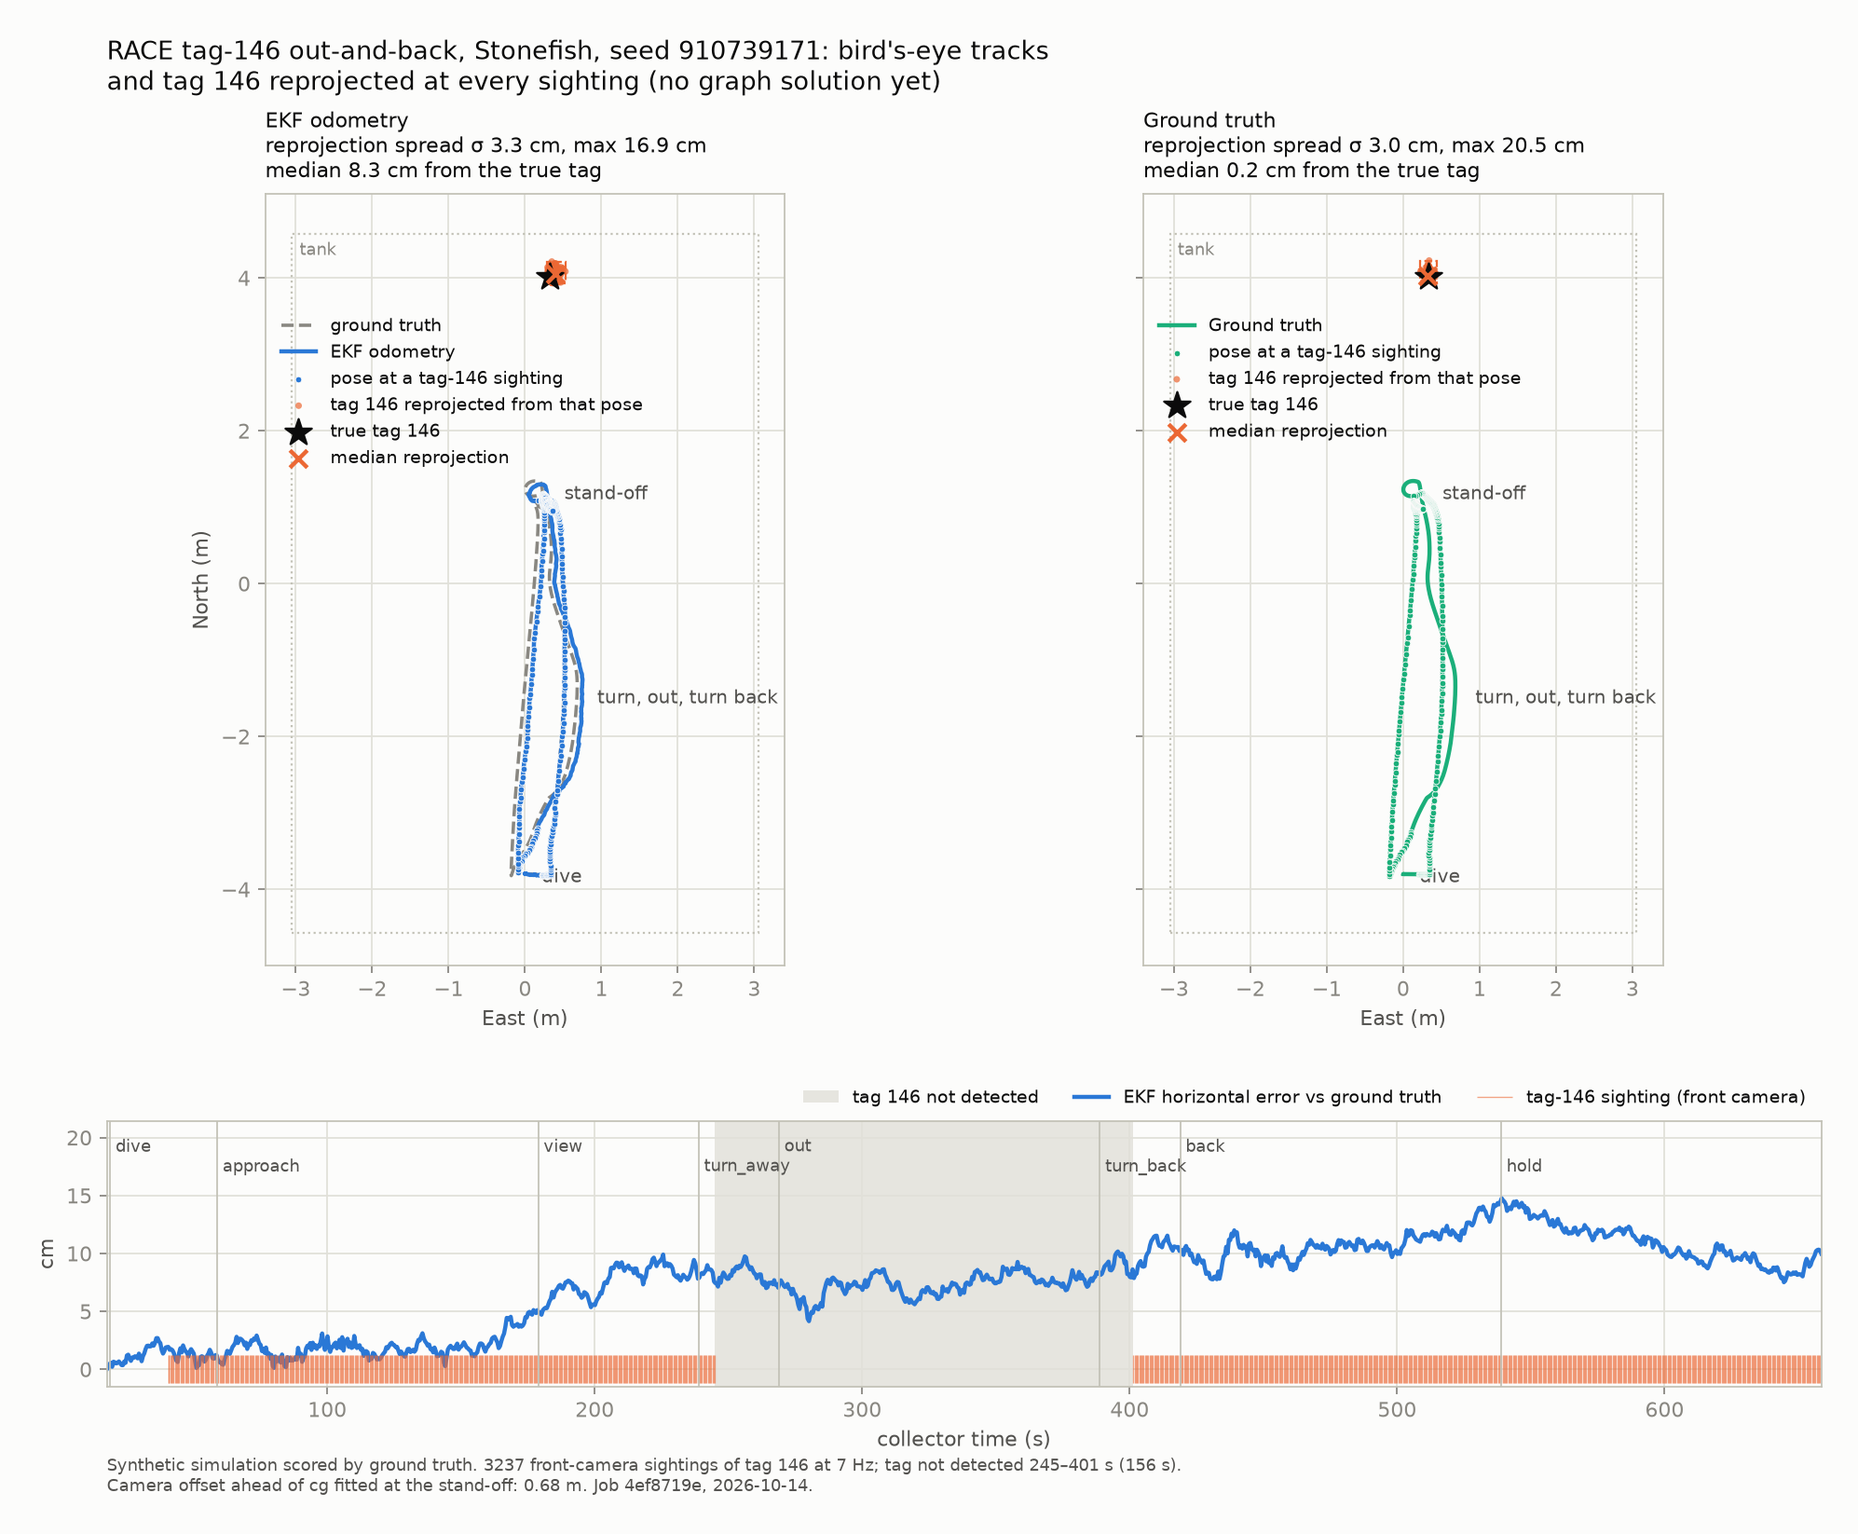
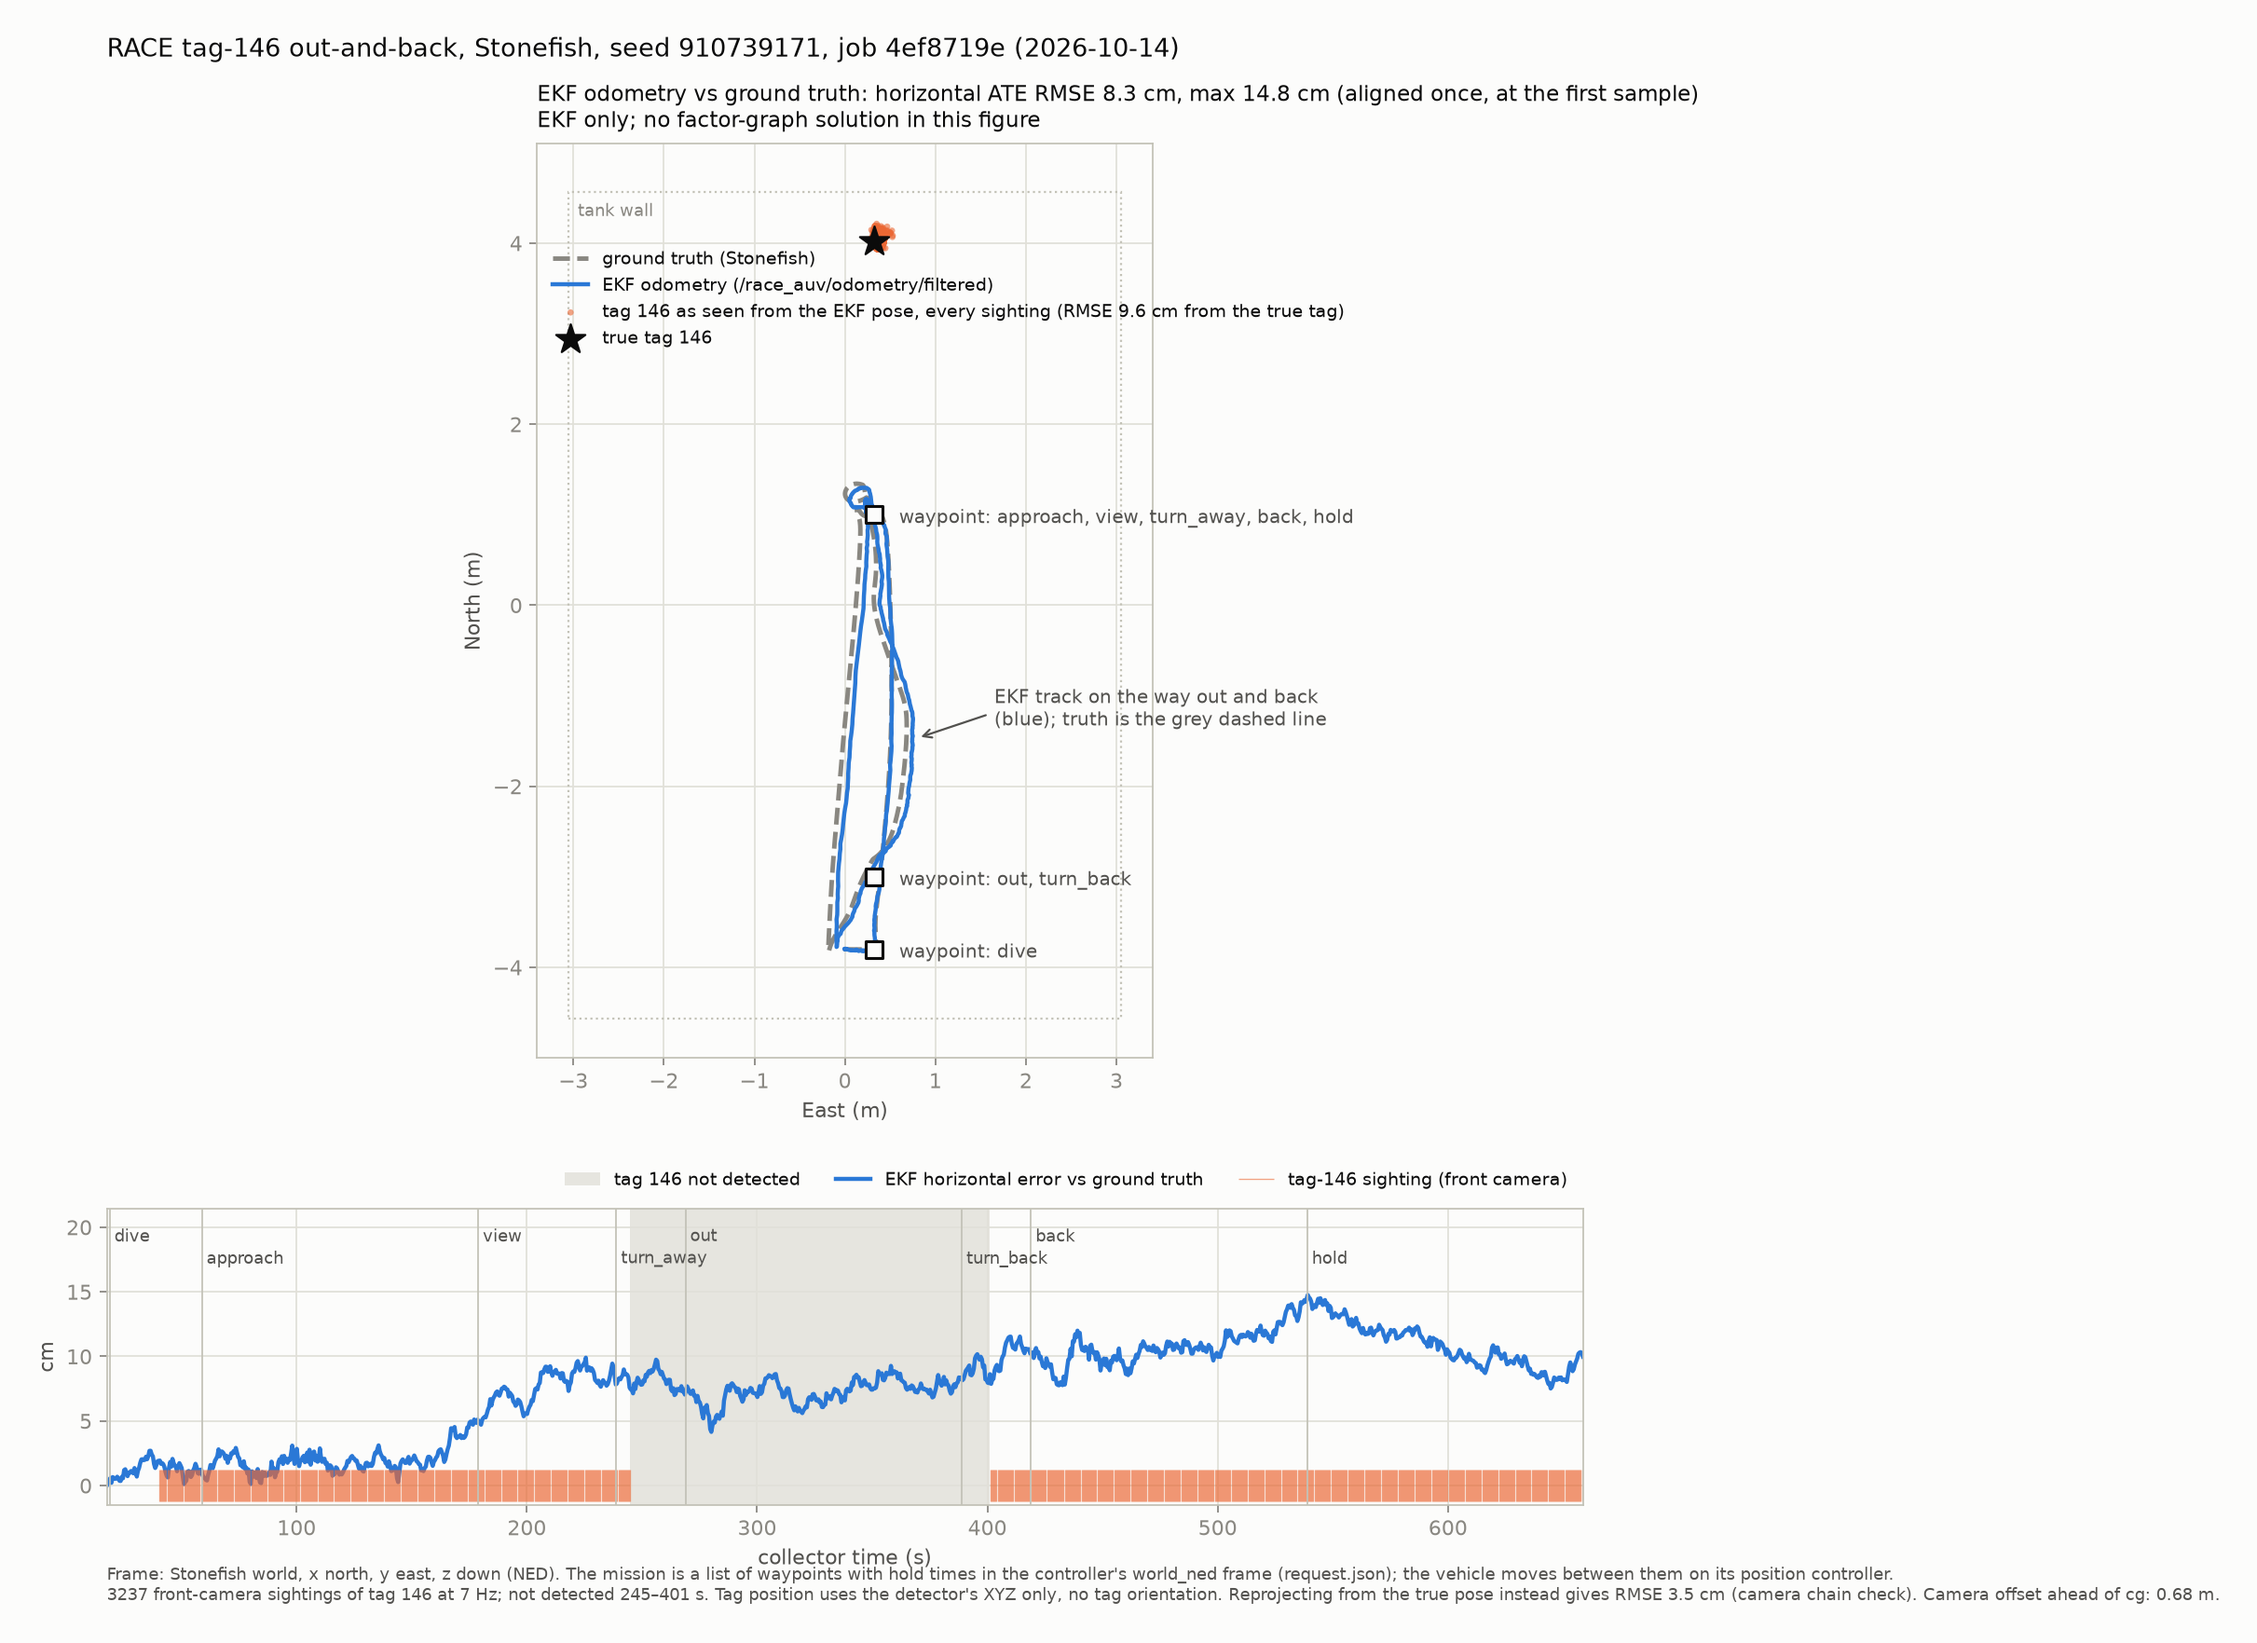
Redraw the tag-146 run figure after the lab's reading: one panel, RMSE, named waypoints, frame stated
Drops the duplicate ground-truth panel and the sighting dots, replaces medians
with horizontal ATE RMSE and max, draws and names the mission waypoints, and
states the coordinate frame and that no tag orientation is used. The first
version is kept as bev-v1-superseded.png.

Claude-Session: https://claude.ai/code/session_01U8BY2J9E2ToqWVCqJcFhAN

diff --git a/docs/piccard/runs/2026-10-14-tag146-out-and-back/make_figure.py b/docs/piccard/runs/2026-10-14-tag146-out-and-back/make_figure.py
@@ -2,7 +2,7 @@ import json,math,sys
 import numpy as np, matplotlib
 matplotlib.use('Agg'); import matplotlib.pyplot as plt
 OUT=sys.argv[1]
-d=json.load(open('docking.json')); tr=json.load(open('trial.json'))
+d=json.load(open('docking.json')); tr=json.load(open('trial.json')); req=json.load(open('request/mission.json'))
 poses=d['poses']; cf=d['controller_frame_in_ground_truth']; yw=cf['yaw_rad']; ox,oy=cf['origin_m'][0],cf['origin_m'][1]
 TAG=np.array([4.02,0.325,3.505])
 def c2w(p):
@@ -29,31 +29,37 @@ def nearest(ts):
 j=nearest(D[:,0]); ok=abs(t[j]-D[:,0])<0.6
 RE=np.array([reproj(ex[k],ey[k],eyaw[k],D[n,1],D[n,3]) for n,k in zip(np.where(ok)[0],j[ok])])
 RG=np.array([reproj(gx[k],gy[k],gyaw[k],D[n,1],D[n,3]) for n,k in zip(np.where(ok)[0],j[ok])])
-def spread(R): med=np.median(R,axis=0); dd=np.linalg.norm(R-med,axis=1); return med,dd.std(),dd.max(),np.linalg.norm(med-TAG[:2])
-mE,sE,xE,offE=spread(RE); mG,sG,xG,offG=spread(RG); err=np.hypot(ex-gx,ey-gy)
+err=np.hypot(ex-gx,ey-gy); rmse=float(np.sqrt(np.mean(err**2))); emax=float(err.max())
+rE=np.linalg.norm(RE-TAG[:2],axis=1); rG=np.linalg.norm(RG-TAG[:2],axis=1)
+rmseE=float(np.sqrt(np.mean(rE**2))); rmseG=float(np.sqrt(np.mean(rG**2)))
 gap=(D[D[:,0]<300][-1,0], D[D[:,0]>300][0,0])
-S='#fcfcfb'; INK='#0b0b0b'; INK2='#52514e'; MUTED='#898781'; GRID='#e1e0d9'; AXIS='#c3c2b7'; C1='#2a78d6'; C2='#eb6834'; C3='#1baf7a'
+# waypoints (controller frame -> world)
+wp={}
+for p in req['poses']: wp.setdefault((p['x_m'],p['y_m']),[]).append(p['label'])
+nums={'ate_horizontal_rmse_m':rmse,'ate_horizontal_max_m':emax,'ate_horizontal_at_end_m':float(err[-1]),
+      'tag146_reprojected_from_ekf_pose_rmse_from_true_tag_m':rmseE,'tag146_reprojected_from_true_pose_rmse_from_true_tag_m':rmseG,
+      'sightings_146_front':int(len(D)),'tag_out_interval_s':[float(gap[0]),float(gap[1])],'camera_offset_fit_m':float(cam_off),
+      'alignment':'EKF (controller world_ned frame) mapped to the Stonefish world by the transform recorded from the first cg_link sample (docking.json controller_frame_in_ground_truth); no least-squares alignment',
+      'frame':'Stonefish world: x north, y east, z down (NED); figure axes East (y) and North (x)','seed':tr['simulator_seed']['value'],'mission_s':tr['mission_seconds']}
+json.dump(nums,open(f'{OUT}/figure-numbers.json','w'),indent=1); print(json.dumps(nums,indent=1))
+S='#fcfcfb'; INK='#0b0b0b'; INK2='#52514e'; MUTED='#898781'; GRID='#e1e0d9'; AXIS='#c3c2b7'; C1='#2a78d6'; C2='#eb6834'
 plt.rcParams.update({'font.family':'sans-serif','font.size':10,'axes.edgecolor':AXIS,'axes.labelcolor':INK2,'xtick.color':MUTED,'ytick.color':MUTED,'text.color':INK})
-fig=plt.figure(figsize=(12.5,10),facecolor=S); gs=fig.add_gridspec(2,2,height_ratios=[3.2,1.1],hspace=0.3,wspace=0.05,left=0.07,right=0.99,top=0.88,bottom=0.08)
-axL=fig.add_subplot(gs[0,0]); axR=fig.add_subplot(gs[0,1],sharex=axL,sharey=axL); axT=fig.add_subplot(gs[1,:])
-for ax,title,R,med,sg,mx,off,col,X,Y in ((axL,'EKF odometry',RE,mE,sE,xE,offE,C1,ex,ey),(axR,'Ground truth',RG,mG,sG,xG,offG,C3,gx,gy)):
-    ax.set_facecolor(S); ax.set_aspect('equal'); ax.grid(True,color=GRID,lw=0.8); ax.set_axisbelow(True)
-    ax.add_patch(plt.Rectangle((-3.05,-4.57),6.1,9.14,fill=False,ec=AXIS,lw=1,ls=':'))
-    ax.text(-2.95,4.3,'tank',fontsize=8,color=MUTED)
-    if ax is axL: ax.plot(gy,gx,color=MUTED,lw=1.6,ls="--",label="ground truth",zorder=2)
-    ax.plot(Y,X,color=col,lw=2,label=title,zorder=3)
-    k=nearest(D[:,0])[::6]; ax.scatter(Y[k],X[k],s=9,color=col,edgecolor=S,lw=0.4,zorder=4,label='pose at a tag-146 sighting')
-    ax.scatter(R[::4,1],R[::4,0],s=10,color=C2,alpha=0.7,edgecolor='none',zorder=5,label='tag 146 reprojected from that pose')
-    ax.scatter([TAG[1]],[TAG[0]],marker='*',s=180,color=INK,zorder=7,label='true tag 146')
-    ax.scatter([med[1]],[med[0]],marker='x',s=70,color=C2,lw=2,zorder=7,label='median reprojection')
-    lo=np.min(R,axis=0); hi=np.max(R,axis=0); ax.add_patch(plt.Rectangle((lo[1],lo[0]),hi[1]-lo[1],hi[0]-lo[0],fill=False,ec=C2,ls='--',lw=1,zorder=6))
-    ax.set_title(f'{title}\nreprojection spread σ {sg*100:.1f} cm, max {mx*100:.1f} cm\nmedian {off*100:.1f} cm from the true tag',fontsize=10,color=INK,loc='left',pad=8)
-    ax.set_xlabel('East (m)')
-    ax.annotate('dive',(gy[0],gx[0]),textcoords='offset points',xytext=(8,-4),fontsize=9,color=INK2)
-    ax.annotate('stand-off',(gy[m].mean(),gx[m].mean()),textcoords='offset points',xytext=(10,-3),fontsize=9,color=INK2)
-    ax.annotate('turn, out, turn back',(gy[(t>330)&(t<340)].mean(),gx[(t>330)&(t<340)].mean()),textcoords='offset points',xytext=(10,0),fontsize=9,color=INK2)
-axL.set_ylabel('North (m)'); axL.set_xlim(-3.4,3.4); axL.set_ylim(-5,5.1)
-axL.legend(loc='upper left',bbox_to_anchor=(0.0,0.86),fontsize=8.5,frameon=False); axR.legend(loc='upper left',bbox_to_anchor=(0.0,0.86),fontsize=8.5,frameon=False); axR.tick_params(labelleft=False)
+fig=plt.figure(figsize=(11,11),facecolor=S); gs=fig.add_gridspec(2,1,height_ratios=[3.4,1.1],hspace=0.25,left=0.08,right=0.98,top=0.9,bottom=0.07)
+ax=fig.add_subplot(gs[0]); axT=fig.add_subplot(gs[1])
+ax.set_facecolor(S); ax.set_aspect('equal'); ax.grid(True,color=GRID,lw=0.8); ax.set_axisbelow(True)
+ax.add_patch(plt.Rectangle((-3.05,-4.57),6.1,9.14,fill=False,ec=AXIS,lw=1,ls=':')); ax.text(-2.95,4.3,'tank wall',fontsize=8,color=MUTED)
+ax.plot(gy,gx,color=MUTED,lw=2.2,ls='--',label='ground truth (Stonefish)',zorder=2)
+ax.plot(ey,ex,color=C1,lw=2,label='EKF odometry (/race_auv/odometry/filtered)',zorder=3)
+ax.scatter(RE[::3,1],RE[::3,0],s=9,color=C2,alpha=0.6,edgecolor='none',zorder=5,label=f'tag 146 as seen from the EKF pose, every sighting (RMSE {rmseE*100:.1f} cm from the true tag)')
+ax.scatter([TAG[1]],[TAG[0]],marker='*',s=220,color=INK,zorder=7,label='true tag 146')
+for (x,y),labs in wp.items():
+    w=c2w((x,y)); ax.scatter([w[1]],[w[0]],marker='s',s=70,facecolor=S,edgecolor=INK,lw=1.4,zorder=6)
+    ax.annotate('waypoint: '+', '.join(labs),(w[1],w[0]),textcoords='offset points',xytext=(12,-4),fontsize=9,color=INK2)
+ax.annotate('',xy=(ey[(t>330)&(t<332)].mean()+0.05,ex[(t>330)&(t<332)].mean()),xytext=(1.6,-1.2),arrowprops=dict(arrowstyle='->',color=INK2,lw=1))
+ax.text(1.65,-1.15,'EKF track on the way out and back\n(blue); truth is the grey dashed line',fontsize=9,color=INK2,va='center')
+ax.set_xlim(-3.4,3.4); ax.set_ylim(-5,5.1); ax.set_xlabel('East (m)'); ax.set_ylabel('North (m)')
+ax.set_title(f'EKF odometry vs ground truth: horizontal ATE RMSE {rmse*100:.1f} cm, max {emax*100:.1f} cm (aligned once, at the first sample)\nEKF only; no factor-graph solution in this figure',fontsize=10.5,color=INK,loc='left',pad=8)
+ax.legend(loc='upper left',bbox_to_anchor=(0.0,0.9),fontsize=8.5,frameon=False)
 axT.set_facecolor(S); axT.grid(True,color=GRID,lw=0.8); axT.set_axisbelow(True)
 axT.axvspan(gap[0],gap[1],color=GRID,alpha=0.8,lw=0,label='tag 146 not detected')
 axT.plot(t,err*100,color=C1,lw=2,label='EKF horizontal error vs ground truth')
@@ -62,6 +68,6 @@ top=max(err*100)*1.45
 for n,p in enumerate(poses):
     axT.axvline(p['start_t'],color=AXIS,lw=0.8); axT.text(p['start_t']+2,top*0.93-(n%2)*top*0.08,p['label'],fontsize=8,color=INK2,va='top')
 axT.set_ylim(-1.5,top); axT.set_xlim(t[0],t[-1]); axT.set_xlabel('collector time (s)'); axT.set_ylabel('cm'); axT.legend(loc='upper right',fontsize=8.5,frameon=False,ncol=3,bbox_to_anchor=(1.0,1.18))
-fig.suptitle(f'RACE tag-146 out-and-back, Stonefish, seed {tr["simulator_seed"]["value"]}: bird\'s-eye tracks\nand tag 146 reprojected at every sighting (no graph solution yet)',fontsize=12,color=INK,x=0.07,ha='left',y=0.985)
-fig.text(0.07,0.01,f'Synthetic simulation scored by ground truth. {len(D)} front-camera sightings of tag 146 at 7 Hz; tag not detected {gap[0]:.0f}–{gap[1]:.0f} s ({gap[1]-gap[0]:.0f} s). \nCamera offset ahead of cg fitted at the stand-off: {cam_off:.2f} m. Job 4ef8719e, 2026-10-14.',fontsize=8,color=INK2)
-fig.savefig(f'{OUT}/race-tag146-out-and-back-bev.png',dpi=160,facecolor=S,bbox_inches="tight",pad_inches=0.25); print('saved')
+fig.suptitle(f'RACE tag-146 out-and-back, Stonefish, seed {tr["simulator_seed"]["value"]}, job 4ef8719e (2026-10-14)',fontsize=12,color=INK,x=0.08,ha='left',y=0.965)
+fig.text(0.08,0.012,f'Frame: Stonefish world, x north, y east, z down (NED). The mission is a list of waypoints with hold times in the controller\'s world_ned frame (request.json); the vehicle moves between them on its position controller.\n{len(D)} front-camera sightings of tag 146 at 7 Hz; not detected {gap[0]:.0f}–{gap[1]:.0f} s. Tag position uses the detector\'s XYZ only, no tag orientation. Reprojecting from the true pose instead gives RMSE {rmseG*100:.1f} cm (camera chain check). Camera offset ahead of cg: {cam_off:.2f} m.',fontsize=8,color=INK2)
+fig.savefig(f'{OUT}/race-tag146-out-and-back-bev.png',dpi=160,facecolor=S,bbox_inches='tight',pad_inches=0.25); print('saved')

diff --git a/docs/piccard/runs/2026-10-14-tag146-out-and-back/README.md b/docs/piccard/runs/2026-10-14-tag146-out-and-back/README.md
@@ -2,7 +2,7 @@
 
[1 lines of base64/hex data omitted]
 
-- `bev.png`: bird's-eye tracks (EKF odometry and ground truth), the pose at every front-camera sighting of tag 146, the tag reprojected from that pose, the true tag, and the EKF error over time with the interval in which the tag was not detected.
+- `bev.png`: one bird's-eye panel, EKF odometry (solid) against ground truth (dashed), the mission waypoints named, the true tag and the tag reprojected from the EKF pose at every sighting; below it the EKF error over time with the interval in which the tag was not detected. Errors are horizontal ATE RMSE and max against ground truth, aligned once at the first sample. Frame: Stonefish world, x north, y east, z down. `bev-v1-superseded.png` is the first version (two panels, sighting dots, medians), kept because the thread discussed it.
 - `figure-numbers.json`: the numbers printed on the figure.
 - `make_figure.py`: the script that drew it from the run's `telemetry.jsonl` and `docking.json` (the `alignment` rows pair the controller's EKF-derived cg pose with ground truth at 2 Hz; detections are in the front camera's optical frame).
 
